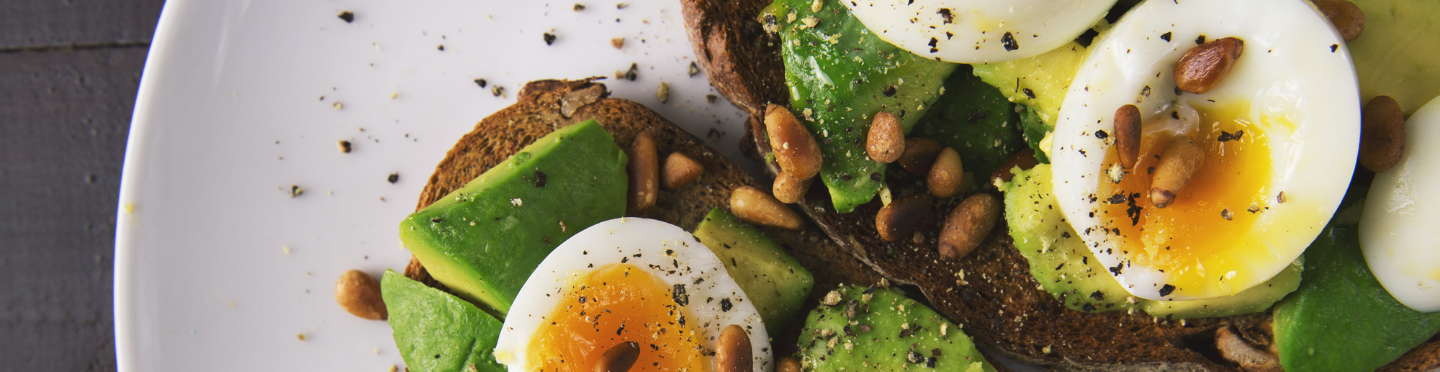
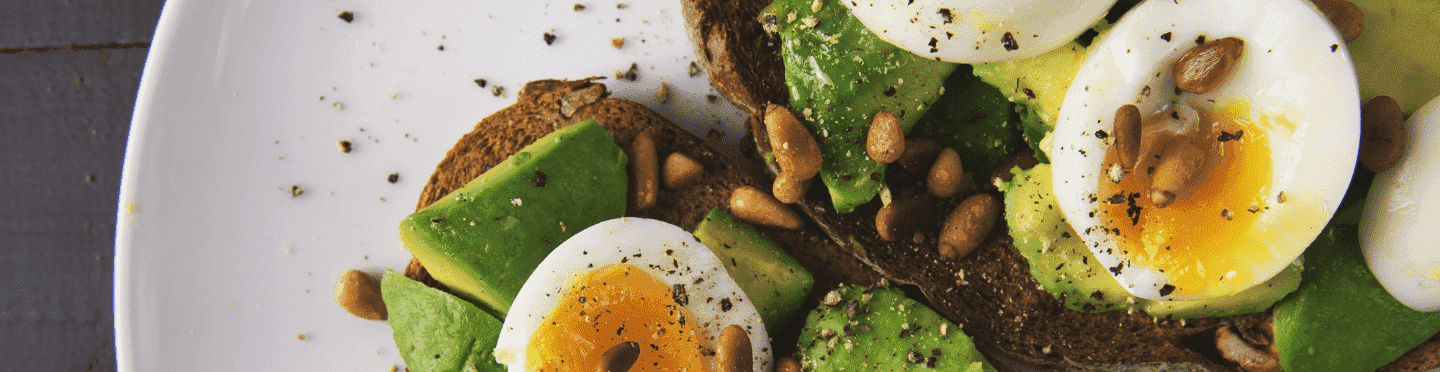
created about us html and updated hero images

diff --git a/about-us.html b/about-us.html
@@ -1,0 +1,126 @@
+<!DOCTYPE html>
+<html lang="en">
+	<head>
+		<meta charset="UTF-8" />
+		<meta http-equiv="X-UA-Compatible" content="IE=edge" />
+		<meta name="viewport" content="width=device-width, initial-scale=1.0" />
+		<title>Foodie2flames - a food recipe blog by Jessica & Le'Von</title>
+		<meta name="title" content="Foodie2flames - a food recipe blog by Jessica & Le'Von">
+		<meta name="description" content="We love to share our passion for healthy dishes, inspired from our cultures and travels.">
+		<link rel="stylesheet" href="css/main.css" />
+
+		<!--Font awesome CDN-->
+		<script
+			src="https://kit.fontawesome.com/a20860e224.js"
+			crossorigin="anonymous"
+		></script>
+
+		<!-- Hotjar Tracking Code for https://foodie2flames.netlify.app/ -->
+		<script>
+			(function(h,o,t,j,a,r){
+				h.hj=h.hj||function(){(h.hj.q=h.hj.q||[]).push(arguments)};
+				h._hjSettings={hjid:2421616,hjsv:6};
+				a=o.getElementsByTagName('head')[0];
+				r=o.createElement('script');r.async=1;
+				r.src=t+h._hjSettings.hjid+j+h._hjSettings.hjsv;
+				a.appendChild(r);
+			})(window,document,'https://static.hotjar.com/c/hotjar-','.js?sv=');
+		</script>
+	</head>
+	<body>
+		<header>
+			<div class="container">
+				<nav class="nav">
+					<div class="menu-toggle">
+						<i class="fas fa-bars"></i>
+						<i class="fas fa-times"></i>
+					</div>
+					<a href="index.html" class="logo"
+						><img src="./img/foodie2flames-logo.png" alt="logo"
+					/></a>
+					<ul class="nav-list">
+						<li class="nav-item">
+							<a href="index.html" class="nav-link active">Home</a>
+						</li>
+						<li class="nav-item">
+							<a href="all-recipes.html" class="nav-link">Recipes</a>
+						</li>
+						<li class="nav-item">
+							<a href="about-us.html" class="nav-link">About Us</a>
+						</li>
+						<li class="nav-item">
+							<a href="contact.html" class="nav-link">Contact</a>
+						</li>
+					</ul>
+				</nav>
+			</div>
+		</header>
+
+		<main class="main--all-recipes">
+			<!-- <div class="all-recipes-hero" id="hero">
+				<div class="container">
+					<h1>A healthy food recipe blog</h1>
+					<h2>by Jessica & Le'Von</h2>
+				</div>
+			</div> -->
+
+            <section>
+                <div class="container">
+                    <h1>About us</h1>
+                </div>
+            </section>
+
+      
+			<div id="alert"></div>
+			<div id="loadingGif"></div>
+
+
+
+
+		</main>
+
+		<footer>
+			<div class="container">
+				<div class="back-to-top">
+					<a href="#hero"><i class="fas fa-chevron-up"></i></a>
+				</div>
+		
+				<div class="footer-content">
+					<div class="footer-content--about">
+						<h3>About Foodie2flames</h3>
+						<img src="img/flame-logo.png" class="footer-flame-logo" alt="flames logo" />
+						<p>We are a food recipe blog</p>
+						<p>Created by Jessica & Le'Von</p>
+						<p>We love to share our passion for healthy dishes</p>
+						<p>Inspired from our cultures and travels</p>
+					</div>
+					<div class="footer-content--social-media">
+						<ul class="social-icons">
+							<li>
+								<a href="#"><i class="fab fa-instagram"></i></i></a>
+							</li>
+							<li>
+								<a href="#"><i class="fab fa-facebook-square"></i></a>
+							</li>
+							<li>
+								<a href="#"><i class="fab fa-pinterest"></i></a>
+							</li>
+							<li>
+								<a href="#"><i class="fab fa-youtube"></i></a>
+							</li>
+						</ul>
+					</div>
+			</div>
+	
+
+			<div class="sub-footer">
+				<div class="sub-footer--left"><p class="copyright-info">© FOODIE2FLAMES</p></div>
+				<div class="sub-footer--right"><p>PRIVACY POLICY</p></div>
+				
+			</div>
+		</footer>
+
+		<script src="js/components/alert.js"></script>
+		<script src="./js/styles.js"></script>
+	</body>
+</html>
